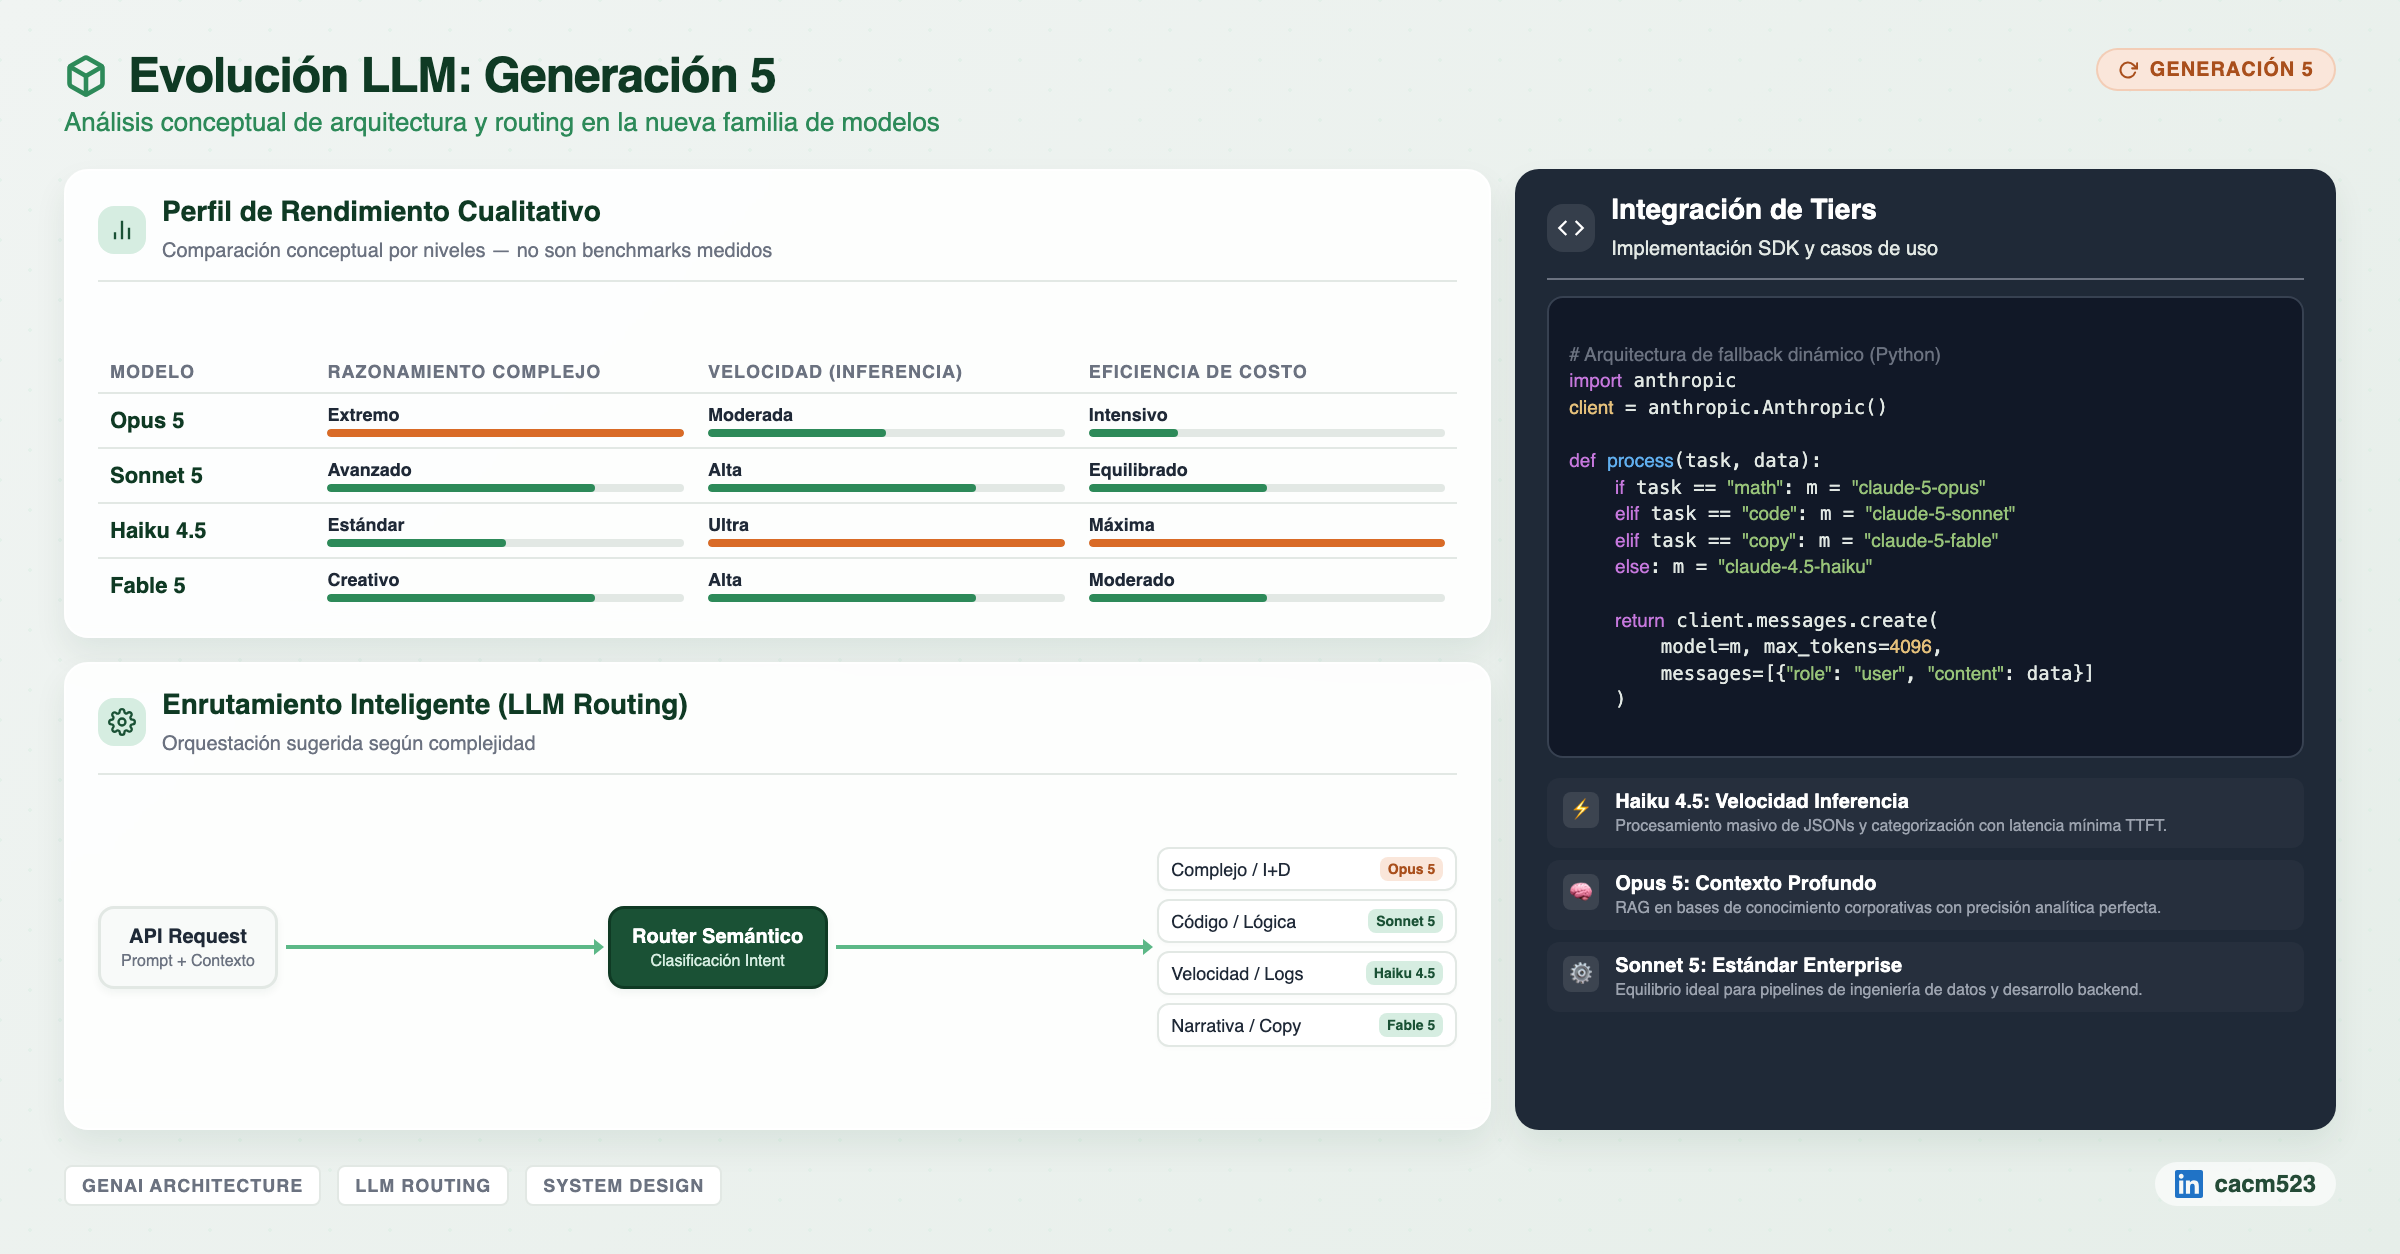
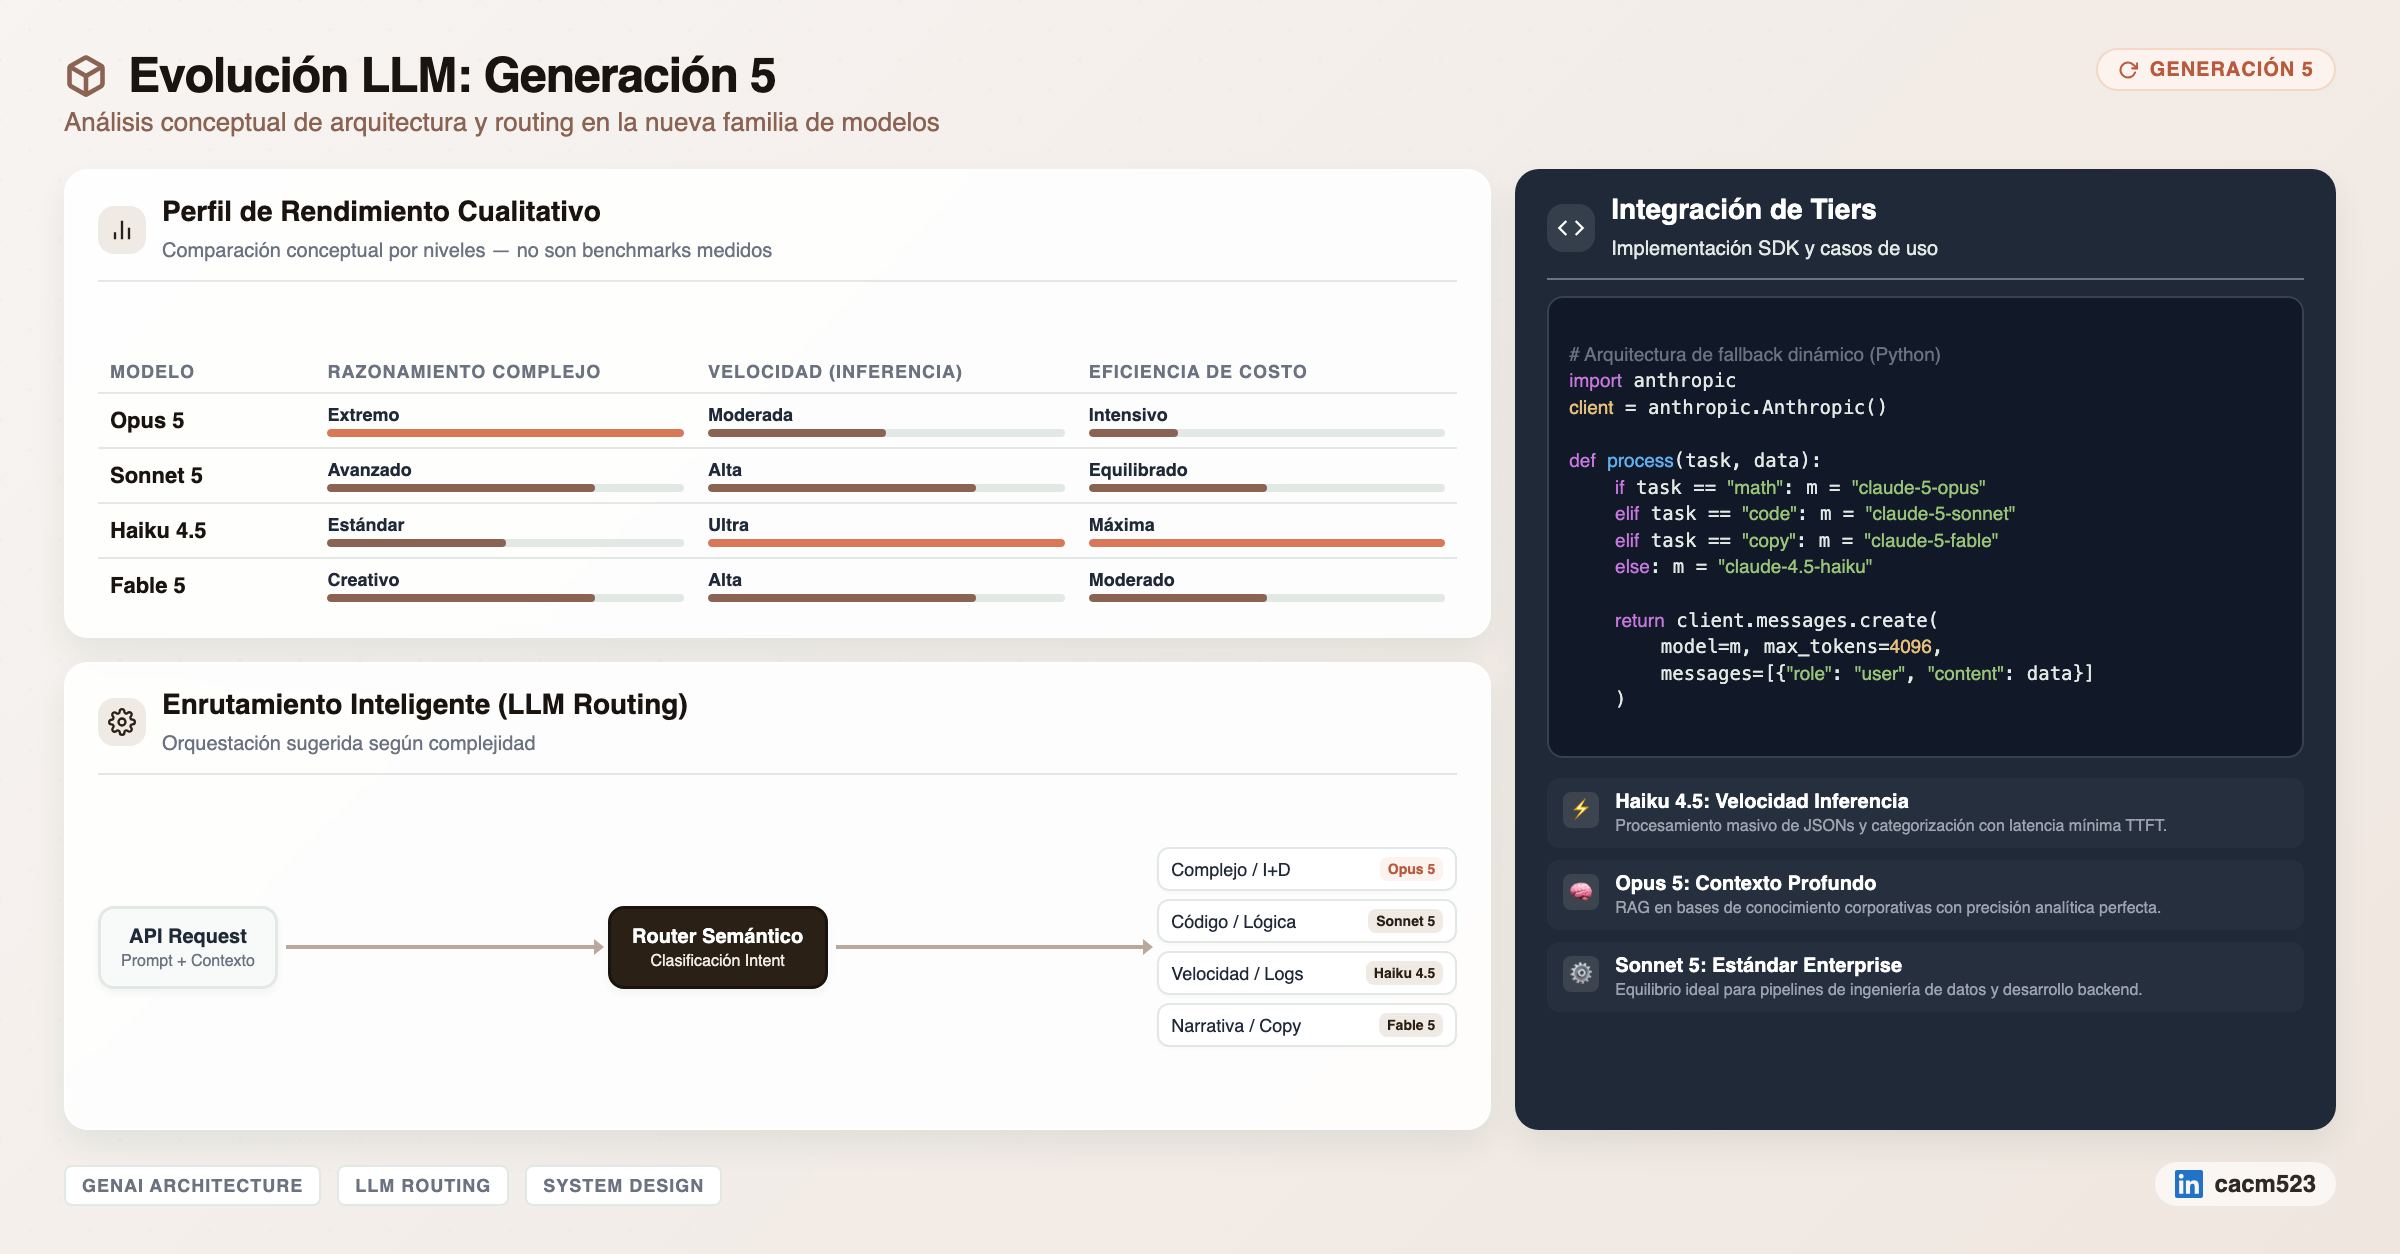
Aplica colores de marca Databricks (rojo ladrillo #FF3621 + negro) exactos
Corrige el ámbar aproximado (#d97706) al rojo oficial de Databricks; el navy verdoso a negro puro.

diff --git a/Construidos/Claude/comparativa-arquitectura-claude-5.html b/Construidos/Claude/comparativa-arquitectura-claude-5.html
@@ -6,18 +6,18 @@
     <title>Infografía - Comparativa Modelos Claude</title>
     <style>
         :root {
-            /* Paleta Verde Predominante */
-            --bg-base: #f0f4f2;
-            --green-900: #0f3a24;
-            --green-800: #1a5135;
-            --green-600: #2d8a59;
-            --green-400: #5cb887;
-            --green-100: #d6ede1;
-            
-            /* Acento Tierra */
-            --earth-700: #a94f1c;
-            --earth-500: #d96b27;
-            --earth-100: #fae6da;
+            /* Paleta Claude: Naranja + Negro */
+            --bg-base: #f7f4f2;
+            --green-900: #1A1410;
+            --green-800: #2A2016;
+            --green-600: #8A6352;
+            --green-400: #B8A99C;
+            --green-100: #F0EAE4;
+
+            /* Acento Naranja Claude */
+            --earth-700: #B85A3D;
+            --earth-500: #D97757;
+            --earth-100: #FDF3EE;
             
             /* Neutros */
             --white: #ffffff;
@@ -51,7 +51,7 @@
         .canvas {
             width: 1200px;
             height: 627px;
-            background: linear-gradient(135deg, var(--bg-base) 0%, #e6eee9 100%);
+            background: linear-gradient(135deg, var(--bg-base) 0%, #efe6df 100%);
             position: relative;
             overflow: hidden;
             box-shadow: 0 24px 48px rgba(0, 0, 0, 0.2);

diff --git a/Construidos/Arquitectura/databricks.html b/Construidos/Arquitectura/databricks.html
@@ -6,8 +6,8 @@
 <meta name="viewport" content="width=device-width, initial-scale=1">
 <style>
   :root{
-    --db-lava: #d97706;
-    --db-navy: #072113;
+    --db-lava: #FF3621;
+    --db-navy: #1B1B1B;
     --db-oat: #DCE6DF;
     --db-oat-light: #F4F8F5;
     --db-gray-lines: #DCE6DF;
